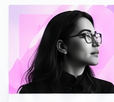
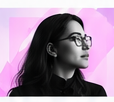
Update page visual assets and enhance About page sections

diff --git a/src/components/about/AboutDNA/AboutDNA.module.css b/src/components/about/AboutDNA/AboutDNA.module.css
@@ -88,18 +88,34 @@
 .valuesGrid {
   display: grid;
   grid-template-columns: repeat(5, 1fr);
-  gap: clamp(0.75rem, 1.8vw, 1.5rem);
+  gap: clamp(0.65rem, 1.2vw, 1.15rem);
 }
 
 .valueItem {
   display: flex;
   flex-direction: column;
   align-items: flex-start;
-  transition: transform var(--transition-normal);
+  background: rgba(255, 255, 255, 0.04);
+  border: 1px solid rgba(255, 255, 255, 0.09);
+  border-radius: 14px;
+  padding: clamp(1.2rem, 1.8vw, 1.5rem) clamp(0.85rem, 1.3vw, 1.2rem);
+  backdrop-filter: blur(16px);
+  -webkit-backdrop-filter: blur(16px);
+  box-shadow: 0 8px 28px rgba(0, 0, 0, 0.25);
+  transition: transform 0.3s cubic-bezier(0.16, 1, 0.3, 1),
+              background-color 0.3s ease,
+              border-color 0.3s ease,
+              box-shadow 0.3s ease;
+  position: relative;
+  overflow: hidden;
 }
 
 .valueItem:hover {
-  transform: translateY(-3px);
+  transform: translateY(-6px) scale(1.04);
+  background: rgba(255, 255, 255, 0.08);
+  border-color: rgba(0, 210, 255, 0.4);
+  box-shadow: 0 16px 36px rgba(0, 0, 0, 0.38), 0 0 24px rgba(0, 210, 255, 0.16);
+  z-index: 2;
 }
 
 .valNumber {
@@ -107,7 +123,7 @@
   font-weight: 800;
   line-height: 1;
   letter-spacing: -0.03em;
-  margin-bottom: 1.25rem;
+  margin-bottom: 1.15rem;
 }
 
 .num_cyan {
@@ -132,12 +148,23 @@
   display: flex;
   align-items: center;
   justify-content: center;
-  width: 36px;
-  height: 36px;
+  width: 44px;
+  height: 44px;
+  border-radius: 10px;
+  background: rgba(255, 255, 255, 0.06);
+  border: 1px solid rgba(255, 255, 255, 0.1);
+  transition: transform 0.3s ease, background-color 0.3s ease, border-color 0.3s ease, color 0.3s ease;
+}
+
+.valueItem:hover .iconBox {
+  transform: scale(1.08);
+  background: rgba(0, 210, 255, 0.15);
+  border-color: rgba(0, 210, 255, 0.4);
+  color: #00D2FF;
 }
 
 .valIcon {
-  stroke-width: 1.9;
+  stroke-width: 2.1;
 }
 
 .valTitle {

diff --git a/src/components/about/AboutProcess/AboutProcess.jsx b/src/components/about/AboutProcess/AboutProcess.jsx
@@ -1,6 +1,6 @@
 import React from 'react';
-import p1 from '../../../assets/about/process-01-discover.png';
-import p2 from '../../../assets/about/process-02-structure.png';
+import p1 from '../../../assets/about/process-01-discover.jpeg';
+import p2 from '../../../assets/about/process-02-structure.jpeg';
 import p3 from '../../../assets/about/process-03-design.png';
 import p4 from '../../../assets/about/process-04-refine.png';
 import p5 from '../../../assets/about/process-05-deliver.png';

diff --git a/src/components/about/AboutCTA/AboutCTA.module.css b/src/components/about/AboutCTA/AboutCTA.module.css
@@ -8,7 +8,7 @@
 
 .container {
   display: grid;
-  grid-template-columns: 1.15fr 1fr 1.1fr;
+  grid-template-columns: 1.05fr 0.9fr 1.35fr;
   align-items: center;
   gap: clamp(1.5rem, 3vw, 2.5rem);
   padding-top: clamp(3.5rem, 5.5vw, 5rem);
@@ -120,7 +120,7 @@
 
 .glowImg {
   width: 100%;
-  max-width: 360px;
+  max-width: 460px;
   height: auto;
   display: block;
   object-fit: contain;
@@ -166,7 +166,7 @@
   }
 
   .glowImg {
-    max-width: 420px;
+    max-width: 480px;
   }
 }
 

diff --git a/src/components/about/AboutDNA/AboutDNA.jsx b/src/components/about/AboutDNA/AboutDNA.jsx
@@ -74,7 +74,7 @@ export default function AboutDNA() {
                     {val.number}
                   </span>
                   <div className={styles.iconBox}>
-                    <Icon size={22} className={styles.valIcon} />
+                    <Icon size={26} className={styles.valIcon} />
                   </div>
                   <h3 className={styles.valTitle}>{val.title}</h3>
                   <p className={styles.valDesc}>{val.description}</p>

diff --git a/src/components/about/AboutProcess/AboutProcess.module.css b/src/components/about/AboutProcess/AboutProcess.module.css
@@ -107,7 +107,7 @@
 
 .imageBox {
   width: 100%;
-  aspect-ratio: 121 / 158;
+  aspect-ratio: 16 / 10;
   border-radius: 6px;
   overflow: hidden;
   background: #F0F4FA;
